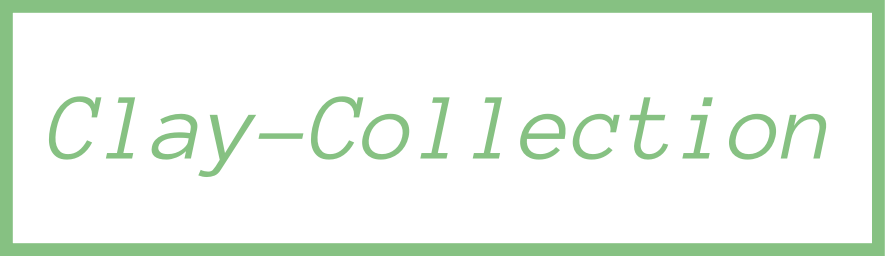
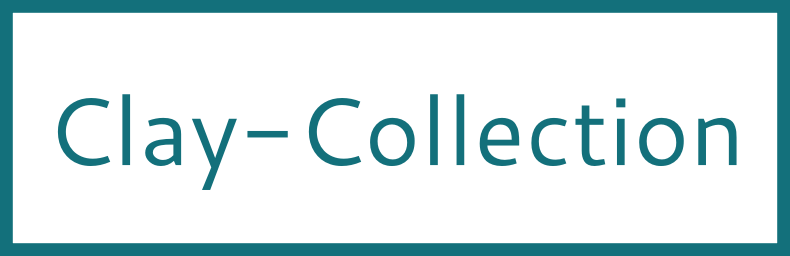
テーマを変えた

Changed region(s): [[0.0, 0.0, 1.0, 1.0]]

diff --git a/lib/banner.js b/lib/banner.js
@@ -39,7 +39,7 @@ Object.assign(banner, {
       font: CLAYDB_FONT,
       color: CLAYDB_COLOR,
       fontSize: 192,
-      width: 316 * 3,
+      width: 316 * 2.8,
       height: 128 * 2
     }
   },
@@ -57,7 +57,7 @@ Object.assign(banner, {
       font: CLAYDB_FONT,
       color: CLAYDB_COLOR,
       fontSize: 192 / 2,
-      width: 316 * 2.8,
+      width: 316 * 2.5,
       height: 128 * 2
     }
   },

diff --git a/lib/constants/color_constants.js b/lib/constants/color_constants.js
@@ -3,4 +3,4 @@
  */
 'use strict'
 
-exports.CLAYDB_COLOR = '#86c182'
+exports.CLAYDB_COLOR = '#13707b'

diff --git a/lib/constants/font_constants.js b/lib/constants/font_constants.js
@@ -3,4 +3,4 @@
  */
 'use strict'
 
-exports.CLAYDB_FONT = 'e'
+exports.CLAYDB_FONT = 'n'
